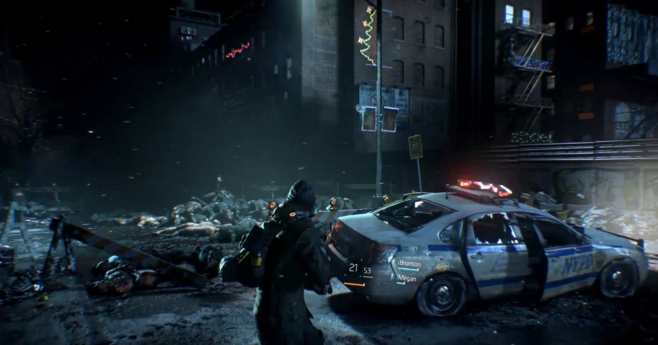
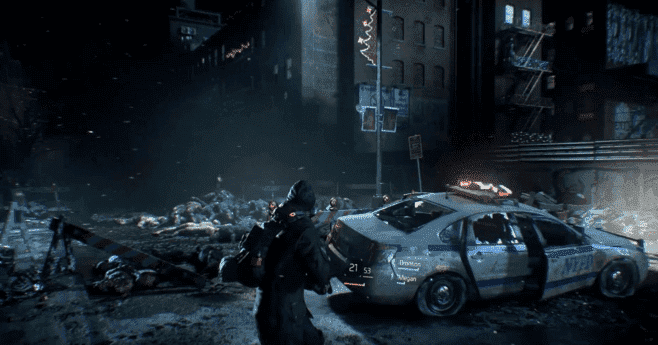
压缩图片

diff --git a/server/app.js b/server/app.js
@@ -7,19 +7,18 @@ const logger = require('koa-logger')
 
 const index = require('./routes/index')
 
-// error handler
 onerror(app)
 
-// middlewares
 app.use(bodyparser({
   enableTypes: ['json', 'form', 'text']
-}))
+}));
 app.use(json())
 app.use(logger())
 app.use(require('koa-static')(__dirname + '/public', {
   maxage: 3600000
 }));
 
+//允许跨域
 app.use(async function (ctx, next) {
   await next();
   ctx.set('Access-Control-Allow-Origin', '*');
